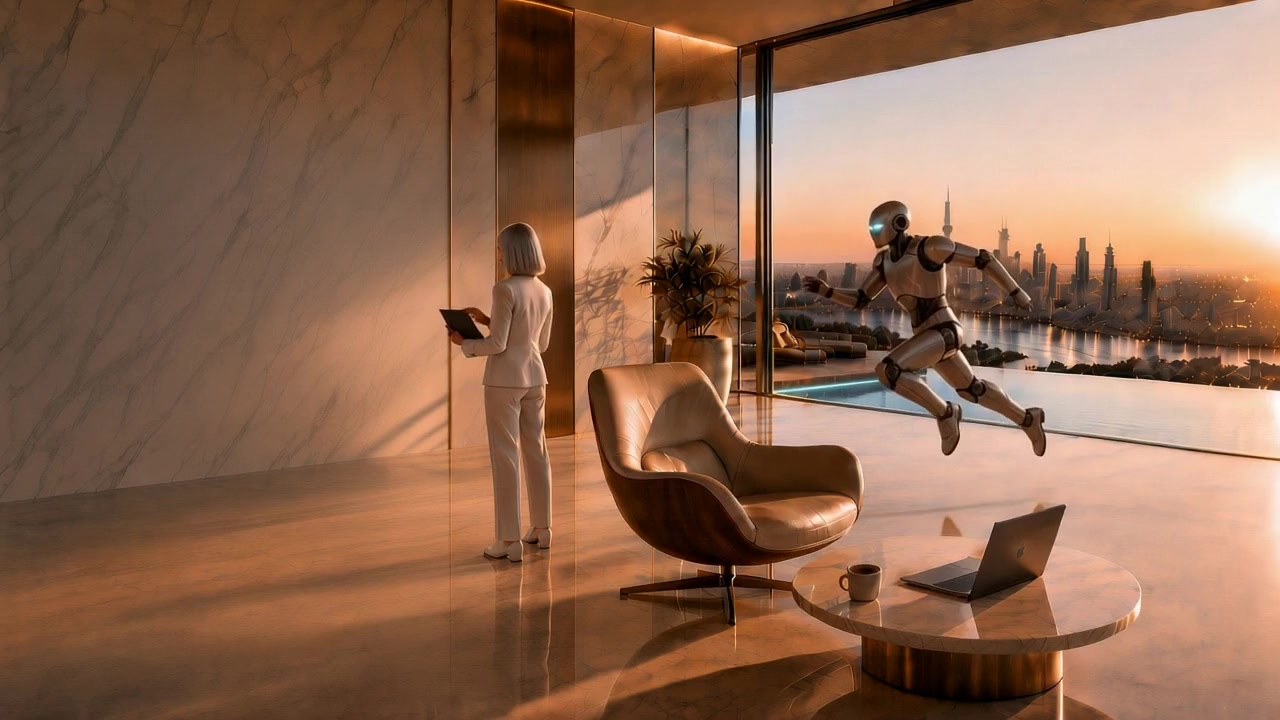
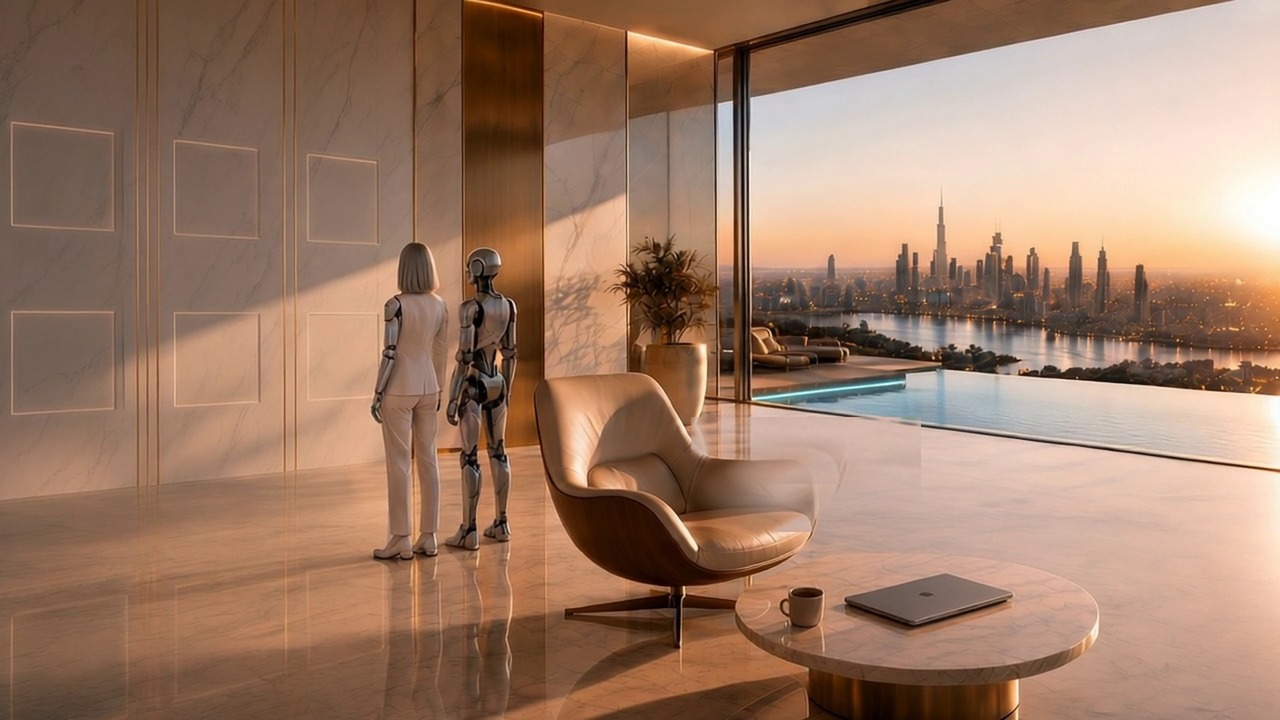
v5f patch: Funding fits tile; settle crossfades to v4 standing; mobile poster frames both
No calm frame in hero-loop (robot mid-leap all 20s) — slow-crossfade to v4 standing still.
Funding Approved two-line cqw sizing with padding. Mobile 2:3 poster crop + aspect-ratio so Maxine and robot stay in frame. QA v5f2-*. Zero Runway.

diff --git a/v5/styles.css b/v5/styles.css
@@ -84,14 +84,14 @@ a { color: inherit; text-decoration: none; }
   position: absolute; inset: 0;
   width: 100%; height: 100%;
   object-fit: cover;
-  object-position: 42% 40%;
+  object-position: 46% 42%;
   z-index: 0;
   opacity: 0;
   pointer-events: none;
-  transition: opacity 1.1s ease;
+  transition: opacity 1.65s ease;
 }
 .hero-stage.settled .hero-settle { opacity: 1; }
-.hero-stage.settled .hero-video { opacity: 0; transition: opacity 1.1s ease; }
+.hero-stage.settled .hero-video { opacity: 0; transition: opacity 1.65s ease; }
 .hero-stage::after {
   content: "";
   position: absolute; inset: 0; z-index: 1; pointer-events: none;
@@ -276,28 +276,35 @@ a { color: inherit; text-decoration: none; }
   z-index: 4;
   font-family: Syne, sans-serif;
   font-weight: 800;
-  font-size: clamp(1.05rem, 1.75vw, 1.7rem);
-  letter-spacing: -0.02em;
-  line-height: 1.05;
+  /* Fit "Funding"/"Approved" inside tile with padding — size to container width */
+  font-size: clamp(0.62rem, 10.5cqw, 0.98rem);
+  letter-spacing: -0.015em;
+  line-height: 1.08;
   color: #ecfdf5;
   text-align: center;
   text-shadow: 0 0 16px rgba(52, 211, 153, .85), 0 1px 6px rgba(0,0,0,.5);
-  padding: 0 6px;
+  padding: 6px 8px;
   white-space: normal;
   max-width: 100%;
   width: 100%;
   box-sizing: border-box;
-  overflow: visible;
+  overflow: hidden;
+  hyphens: manual;
+  word-break: keep-all;
 }
+.funding-line br { display: block; content: ""; }
+
 .funding-card-text {
   aspect-ratio: 16/9;
   display: flex; align-items: center; justify-content: center;
   font-family: Syne, sans-serif; font-weight: 800;
-  font-size: clamp(0.7rem, 3.6vw, 0.95rem); color: #ecfdf5;
+  font-size: clamp(0.65rem, 3.2vw, 0.9rem); color: #ecfdf5;
   background: linear-gradient(160deg, rgba(8, 28, 22, .45), rgba(6, 18, 16, .3));
   text-shadow: 0 0 14px rgba(52, 211, 153, .7);
-  white-space: nowrap;
-  padding: 0 10px;
+  white-space: normal;
+  text-align: center;
+  line-height: 1.1;
+  padding: 6px 10px;
   box-sizing: border-box;
   overflow: hidden;
 }
@@ -626,7 +633,7 @@ a { color: inherit; text-decoration: none; }
     background: #4a3422;
   }
   .hero-stage::after {
-    height: 55vh;
+    height: min(70vh, calc(100vw * 1.5));
     min-height: 280px;
     background:
       linear-gradient(180deg, rgba(5,5,7,.12) 0%, transparent 20%, transparent 70%, rgba(36,24,14,.25) 100%);
@@ -642,16 +649,18 @@ a { color: inherit; text-decoration: none; }
     position: relative;
     left: auto; right: auto; top: auto;
     width: 100%;
-    height: 55vh;
+    height: auto;
+    aspect-ratio: 2 / 3;
+    max-height: 70vh;
     min-height: 280px;
-    max-height: 520px;
+    /* Poster is pre-cropped 2:3 with Maxine+robot + margin; same ratio → no clip */
     object-fit: cover;
-    object-position: 50% 32%;
+    object-position: 50% 42%;
     transform: none;
     z-index: 0;
-    /* Keep crisp — no filter blur */
     image-rendering: auto;
     filter: none;
+    background: #4a3422;
   }
   .hero-copy {
     position: relative;

diff --git a/v5/js/hero.js b/v5/js/hero.js
@@ -109,27 +109,12 @@
     settled = true;
     wall?.classList.remove('mid-reveal');
     wall?.classList.add('settled');
-    // Seek back to earlier hovering frame in the same plate, then hold.
-    // Crossfade the calm still underneath so mid-leap never freezes on screen.
-    const CALM_AT = 1.05;
+    // Plate has no upright frame (robot mid-leap throughout). Pause video and
+    // slow-crossfade to v4 standing still (settle-calm.jpg). 0 Runway.
     if (video) {
-      const onSeeked = () => {
-        try { video.pause(); } catch (_) {}
-        stage?.classList.add('settled');
-        video.removeEventListener('seeked', onSeeked);
-      };
-      video.addEventListener('seeked', onSeeked);
-      try {
-        video.currentTime = CALM_AT;
-      } catch (_) {
-        stage?.classList.add('settled');
-        try { video.pause(); } catch (__) {}
-      }
-      // Safety: ensure still shows even if seek stalls
-      setTimeout(() => stage?.classList.add('settled'), 700);
-    } else {
-      stage?.classList.add('settled');
+      try { video.pause(); } catch (_) {}
     }
+    stage?.classList.add('settled');
   }
 
   function runDesktopBeats() {
